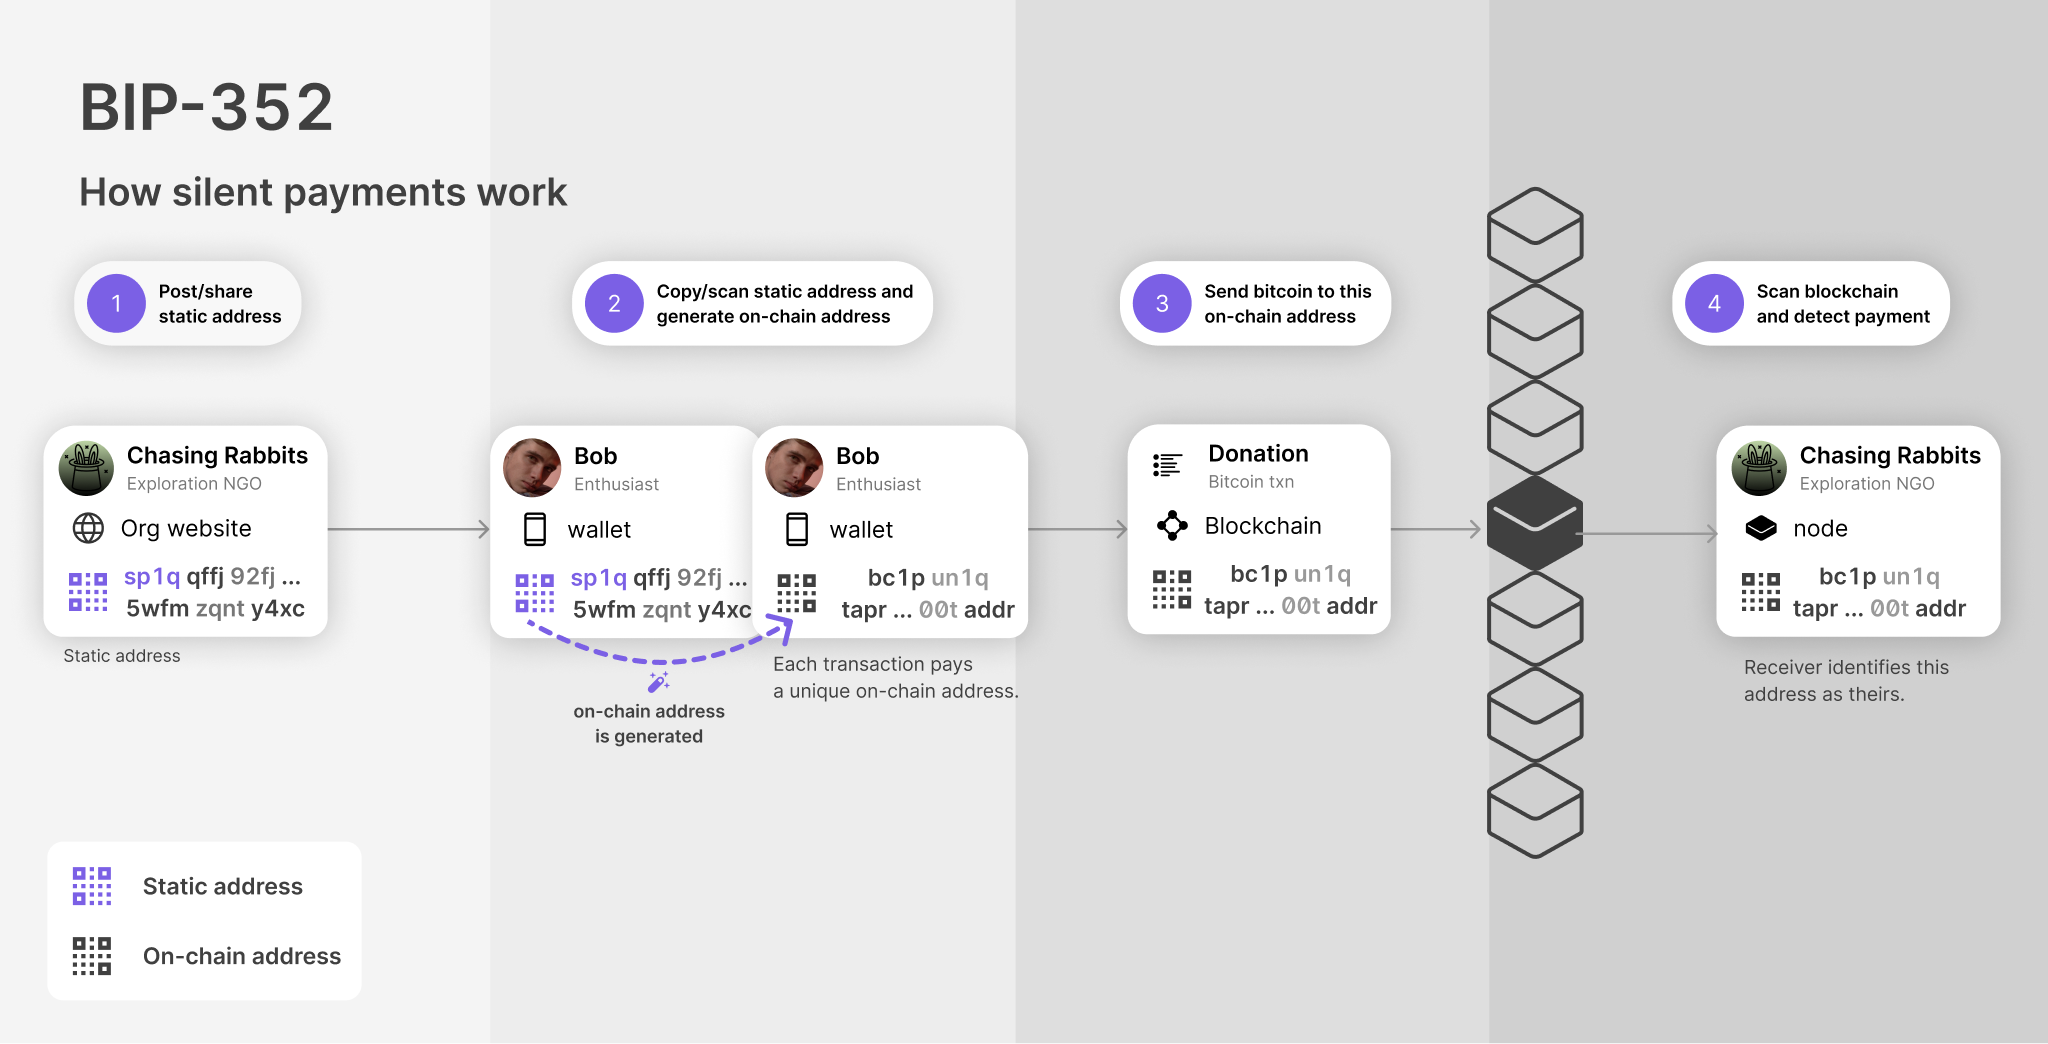
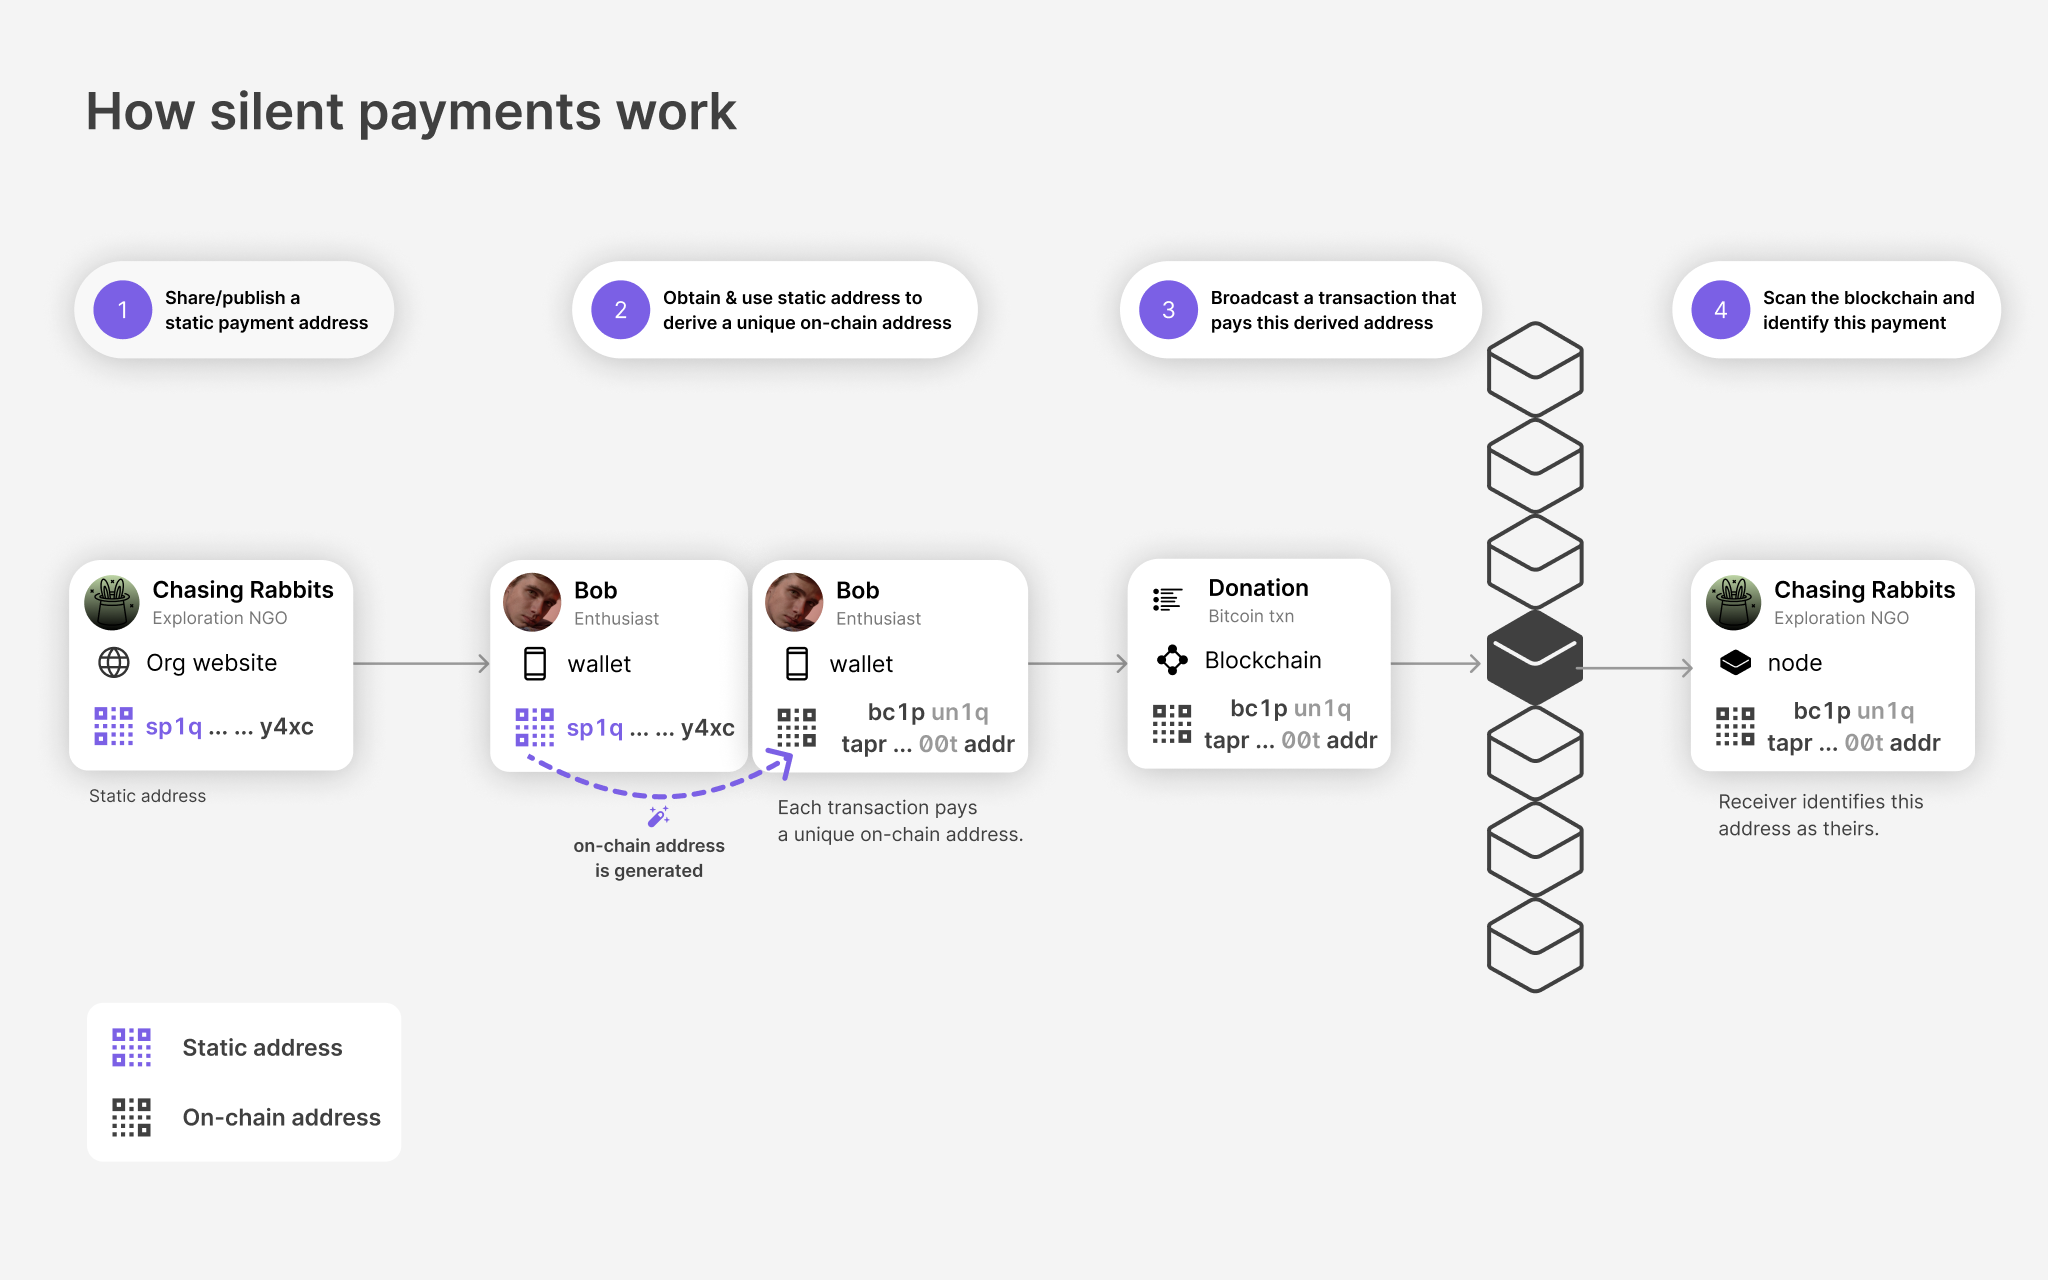
Improve how it works illustration
Improve layout, spacing; update steps copy (according to reading session feedback

diff --git a/guide/how-it-works/silent-payments.md b/guide/how-it-works/silent-payments.md
@@ -144,8 +144,8 @@ Silent payments are made in 4 broad steps:
 {% include picture.html
    image = "/assets/images/guide/how-it-works/silent-payments/how-silent-payments-work.png"
    retina = "/assets/images/guide/how-it-works/silent-payments/how-silent-payments-work@2x.png"
-   mobile = "/assets/images/guide/how-it-works/silent-payments/how-silent-payments-work.png"
-   mobileRetina = "/assets/images/guide/how-it-works/silent-payments/how-silent-payments-work@2x.png"
+   mobile = "/assets/images/guide/how-it-works/silent-payments/how-silent-payments-work-mobile.png"
+   mobileRetina = "/assets/images/guide/how-it-works/silent-payments/how-silent-payments-work-mobile@2x.png"
    alt-text = "An image that illustrates how silent payments work in 4 steps."
    caption = "Alice posts a static address on the website of her non-profit, Chasing Rabbits. Bob uses it to send bitcoin from his wallet. This transaction pays a derived on-chain address that Alice can identify as a donation to her by scanning the blockchain."
    width = 1024
